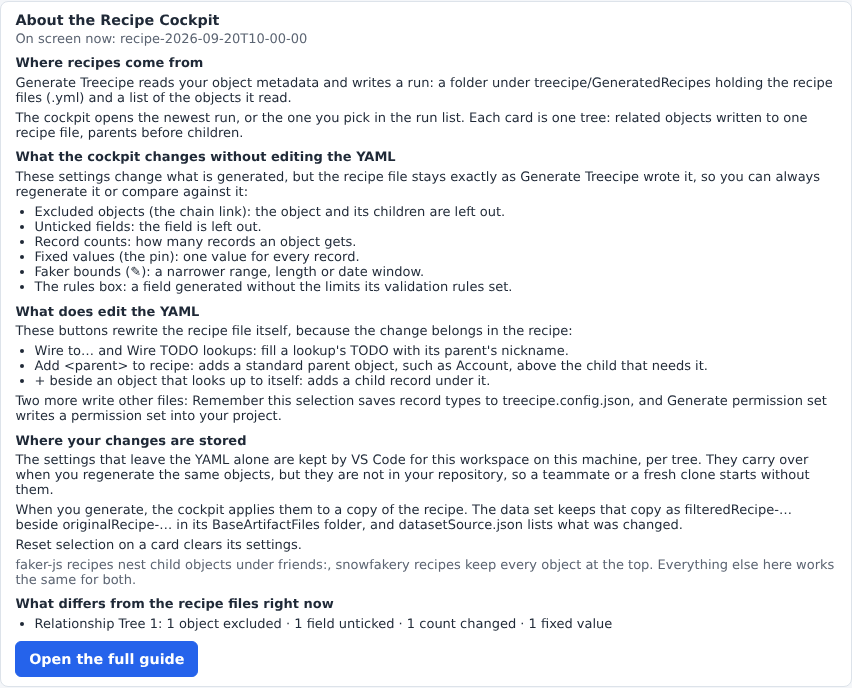
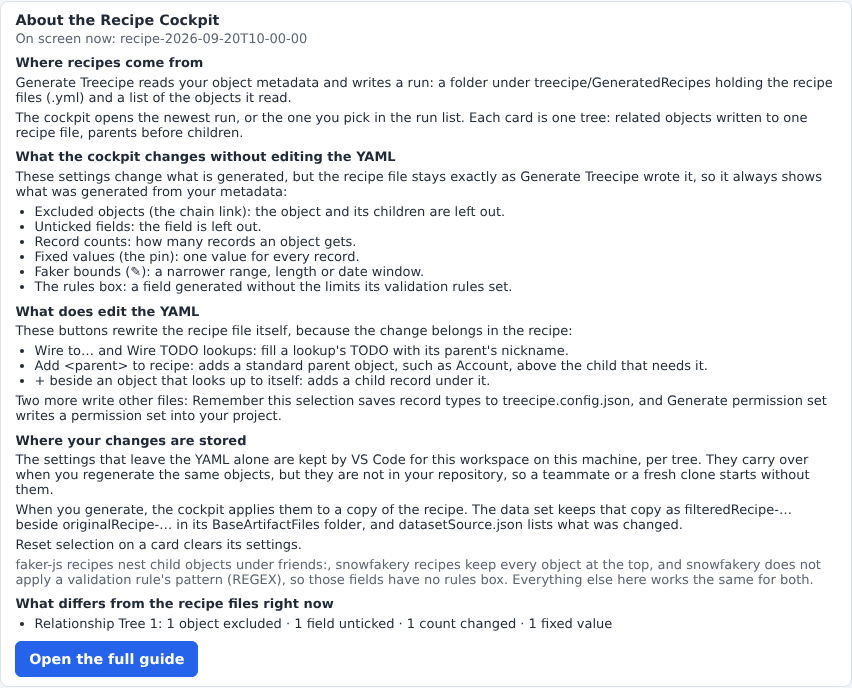
Recipe Cockpit help: summary counts only what generation applies (#332 review)
The help's live summary no longer counts an excluded object's unticked
fields or stored count, and counts a faker bound on a rule-driven field
once rather than also as a field without its rules. The backend note now
says snowfakery does not apply a validation rule's REGEX pattern, and the
help no longer points at comparing in the cockpit, whose Compare tab is
gone. The help screenshot is re-taken.

Claude-Session: https://claude.ai/code/session_01FroeBfpHEMJCzTy8idqQPY

Changed region(s): [[0.0, 0.7936, 0.9765, 0.8547], [0.0, 0.2747, 0.3357, 0.3052], [0.8545, 0.2442, 0.9765, 0.2747]]

diff --git a/src/treecipe/src/RecipeCockpitService/RecipeCockpitService.ts b/src/treecipe/src/RecipeCockpitService/RecipeCockpitService.ts
@@ -396,7 +396,7 @@ export const RECIPE_COCKPIT_HELP_SUMMARY_HEADING = 'What differs from the recipe
 
 export const RECIPE_COCKPIT_HELP_NO_DIFFERENCE = 'No tree differs from its recipe file.';
 
-export const RECIPE_COCKPIT_HELP_BACKEND_NOTE = 'faker-js recipes nest child objects under friends:, snowfakery recipes keep every object at the top. Everything else here works the same for both.';
+export const RECIPE_COCKPIT_HELP_BACKEND_NOTE = 'faker-js recipes nest child objects under friends:, snowfakery recipes keep every object at the top, and snowfakery does not apply a validation rule\'s pattern (REGEX), so those fields have no rules box. Everything else here works the same for both.';
 
 export const RECIPE_COCKPIT_HELP_SECTIONS: readonly IRecipeCockpitHelpSection[] = [
     {
@@ -409,7 +409,7 @@ export const RECIPE_COCKPIT_HELP_SECTIONS: readonly IRecipeCockpitHelpSection[] 
     {
         heading: 'What the cockpit changes without editing the YAML',
         paragraphs: [
-            'These settings change what is generated, but the recipe file stays exactly as Generate Treecipe wrote it, so you can always regenerate it or compare against it:'
+            'These settings change what is generated, but the recipe file stays exactly as Generate Treecipe wrote it, so it always shows what was generated from your metadata:'
         ],
         items: [
             'Excluded objects (the chain link): the object and its children are left out.',
@@ -10578,17 +10578,27 @@ ${this.buildPaletteCustomProperties()}
         const countOf = function (candidateList) { return Array.isArray(candidateList) ? candidateList.length : 0; };
         const describe = function (count, singular, plural) { return count + ' ' + (count === 1 ? singular : plural); };
 
-        const excludedObjectCount = countOf(tree.objectSelection && tree.objectSelection.exclusions);
-        const untickedFieldCount = (tree.fieldSelection && Array.isArray(tree.fieldSelection.objects) ? tree.fieldSelection.objects : [])
+        const exclusions = tree.objectSelection && Array.isArray(tree.objectSelection.exclusions) ? tree.objectSelection.exclusions : [];
+        // AN EXCLUDED OBJECT KEEPS ITS UNTICKED FIELDS AND STORED COUNT FOR WHEN IT COMES BACK, BUT GENERATION APPLIES NEITHER
+        const excludedObjectApiNames = toStringSet(exclusions.map(function (exclusion) { return exclusion.objectApiName; }));
+        const isGenerated = function (entry) { return !!entry && !hasString(excludedObjectApiNames, entry.objectApiName); };
+        const generatedEntries = function (candidateList) { return Array.isArray(candidateList) ? candidateList.filter(isGenerated) : []; };
+
+        const untickedFieldCount = generatedEntries(tree.fieldSelection && tree.fieldSelection.objects)
             .reduce(function (total, objectFieldSelection) { return total + countOf(objectFieldSelection.excludedFieldApiNames); }, 0);
 
+        // A FAKER BOUND ALSO SWITCHES THE FIELD'S RULES OFF (#325); ONE EDIT IS COUNTED ONCE, AS THE BOUND
+        const constrainedFieldKeys = toStringSet(generatedEntries(tree.constraints).map(function (constraint) { return constraint.objectApiName + '.' + constraint.fieldApiName; }));
+        const rulesOffCount = generatedEntries(tree.validationRulesOff)
+            .filter(function (fieldReference) { return !hasString(constrainedFieldKeys, fieldReference.objectApiName + '.' + fieldReference.fieldApiName); }).length;
+
         return [
-            [excludedObjectCount, 'object excluded', 'objects excluded'],
+            [exclusions.length, 'object excluded', 'objects excluded'],
             [untickedFieldCount, 'field unticked', 'fields unticked'],
-            [countOf(tree.objectCounts), 'count changed', 'counts changed'],
-            [countOf(tree.fixedValues), 'fixed value', 'fixed values'],
-            [countOf(tree.constraints), 'faker bound', 'faker bounds'],
-            [countOf(tree.validationRulesOff), 'field without its rules', 'fields without their rules']
+            [generatedEntries(tree.objectCounts).length, 'count changed', 'counts changed'],
+            [generatedEntries(tree.fixedValues).length, 'fixed value', 'fixed values'],
+            [generatedEntries(tree.constraints).length, 'faker bound', 'faker bounds'],
+            [rulesOffCount, 'field without its rules', 'fields without their rules']
         ].filter(function (difference) { return difference[0] > 0; })
             .map(function (difference) { return describe(difference[0], difference[1], difference[2]); });
 

diff --git a/src/treecipe/src/RecipeCockpitService/tests/RecipeCockpitHelp.test.ts b/src/treecipe/src/RecipeCockpitService/tests/RecipeCockpitHelp.test.ts
@@ -72,7 +72,7 @@ const applyEveryDifference = (tree: IRecipeCockpitTreeViewModel) => {
     tree.objectCounts = [{ objectApiName: 'Account', count: 5 }];
     tree.fixedValues = [{ objectApiName: 'Account', fieldApiName: 'Name', value: 'Acme', kind: 'text' }, { objectApiName: 'Account', fieldApiName: 'Industry', value: 'Energy', kind: 'text' }];
     tree.constraints = [{ objectApiName: 'Account', fieldApiName: 'NumberOfEmployees', min: '1', max: '9', expression: '${{ faker.number.int({ min: 1, max: 9 }) }}' }];
-    tree.validationRulesOff = [{ objectApiName: 'Account', fieldApiName: 'NumberOfEmployees' }];
+    tree.validationRulesOff = [{ objectApiName: 'Account', fieldApiName: 'Rating__c' }];
 };
 
 describe('RecipeCockpitService help section (#332)', () => {
@@ -219,6 +219,34 @@ describe('RecipeCockpitService help section (#332)', () => {
                 `${treeOf(recipe, ACCOUNT_TREE_KEY).title}: 1 object excluded · 3 fields unticked · 1 count changed · 2 fixed values · 1 faker bound · 1 field without its rules`,
                 'Leads only: 1 count changed'
             ]);
+
+        });
+
+        it('leaves out what an excluded object keeps for later, since generation applies none of it', () => {
+
+            const recipe = loadRecipe();
+            const accountTree = treeOf(recipe, ACCOUNT_TREE_KEY);
+            accountTree.objectSelection = { exclusions: [{ objectApiName: 'OtherChildObject__c', kind: 'excluded' }], disabledLookups: [], includedObjectCount: 2, objectCount: 3 };
+            accountTree.fieldSelection = { objects: [
+                { objectApiName: 'OtherChildObject__c', excludedFieldApiNames: ['Score__c', 'Ratio__c'], lockedFields: [] },
+                { objectApiName: 'Account', excludedFieldApiNames: ['Legacy_Code__c'], lockedFields: [] }
+            ] };
+            accountTree.objectCounts = [{ objectApiName: 'OtherChildObject__c', count: 9 }];
+            const panel = drawRecipe(recipe);
+
+            expect(summaryLinesOf(panel)).toEqual([`${accountTree.title}: 1 object excluded · 1 field unticked`]);
+
+        });
+
+        it('counts a faker bound once, though it also switches the field\'s rules off', () => {
+
+            const recipe = loadRecipe();
+            const accountTree = treeOf(recipe, ACCOUNT_TREE_KEY);
+            accountTree.constraints = [{ objectApiName: 'Account', fieldApiName: 'Annual_Budget__c', min: '1', max: '9', expression: '${{ faker.number.int({ min: 1, max: 9 }) }}' }];
+            accountTree.validationRulesOff = [{ objectApiName: 'Account', fieldApiName: 'Annual_Budget__c' }, { objectApiName: 'Account', fieldApiName: 'Legacy_Code__c' }];
+            const panel = drawRecipe(recipe);
+
+            expect(summaryLinesOf(panel)).toEqual([`${accountTree.title}: 1 faker bound · 1 field without its rules`]);
 
         });
 

diff --git a/CHANGELOG.md b/CHANGELOG.md
@@ -13,6 +13,11 @@ The cockpit can show a tree that differs from the `.yml` on disk, and nothing in
 - **Screenshots** come from `developmentSupportScripts/recipe-cockpit-screenshots/captureRecipeCockpitScreenshots.js`, which renders the real shell with a model built from the test fixture workspace in headless Chromium at a fixed viewport. A picture is written only when its bytes change, so a second run on unchanged code leaves git clean. It uses a Playwright already installed outside the project, adds no dependency and never downloads a browser.
 - **`/cockpit-help-sync`** (`.claude/skills/cockpit-help-sync/SKILL.md`) reads the cockpit changes since the guide last changed, updates the help text and the guide together in plain words, re-takes the screenshots and reports what changed and why.
 - **The place.** Whether the section is open is saved as an optional `isHelpExpanded`, so the place version did not change and an older place reads as collapsed.
+- **From review:**
+  - The summary no longer counts an excluded object's unticked fields or stored count, which generation does not apply.
+  - A faker bound on a rule-driven field is counted once, as the bound, not also as a field without its rules.
+  - The backend note now says snowfakery does not apply a validation rule's REGEX pattern.
+  - The help no longer suggests comparing in the cockpit, whose Compare tab was removed in #266.
 - **Tests.** `RecipeCockpitHelp.test.ts` runs the real panel script: the toggle, the four parts, the empty state, the summary for every kind of difference, its redraws, a hostile name, the place both ways, the router and the host opening the url. It also holds the guide to the help: same headings in the same order, a picture under each, every picture in `docs/images/recipe-cockpit/` and at most 200 KB.
 
 ## [3.90.0] - Recipe Cockpit: a validation-rule checkbox at the end of a field row

diff --git a/docs/RECIPE-COCKPIT-GUIDE.md b/docs/RECIPE-COCKPIT-GUIDE.md
@@ -20,7 +20,7 @@ The cockpit opens the newest run, or the one you pick in the run list at the top
 
 ## What the cockpit changes without editing the YAML
 
-These settings change what is generated, but the recipe file stays exactly as Generate Treecipe wrote it, so you can always regenerate it or compare against it:
+These settings change what is generated, but the recipe file stays exactly as Generate Treecipe wrote it, so it always shows what was generated from your metadata:
 
 - **Excluded objects** (the chain link): the object and its children are left out.
 - **Unticked fields**: the field is left out.
@@ -57,4 +57,5 @@ The data set keeps that copy as `filteredRecipe-…` beside `originalRecipe-…`
 ## faker-js and snowfakery
 
 faker-js recipes nest child objects under `friends:`, snowfakery recipes keep every object at the top.
+snowfakery does not apply a validation rule's pattern (`REGEX`), so those fields have no rules box.
 Everything else on this page works the same for both.
